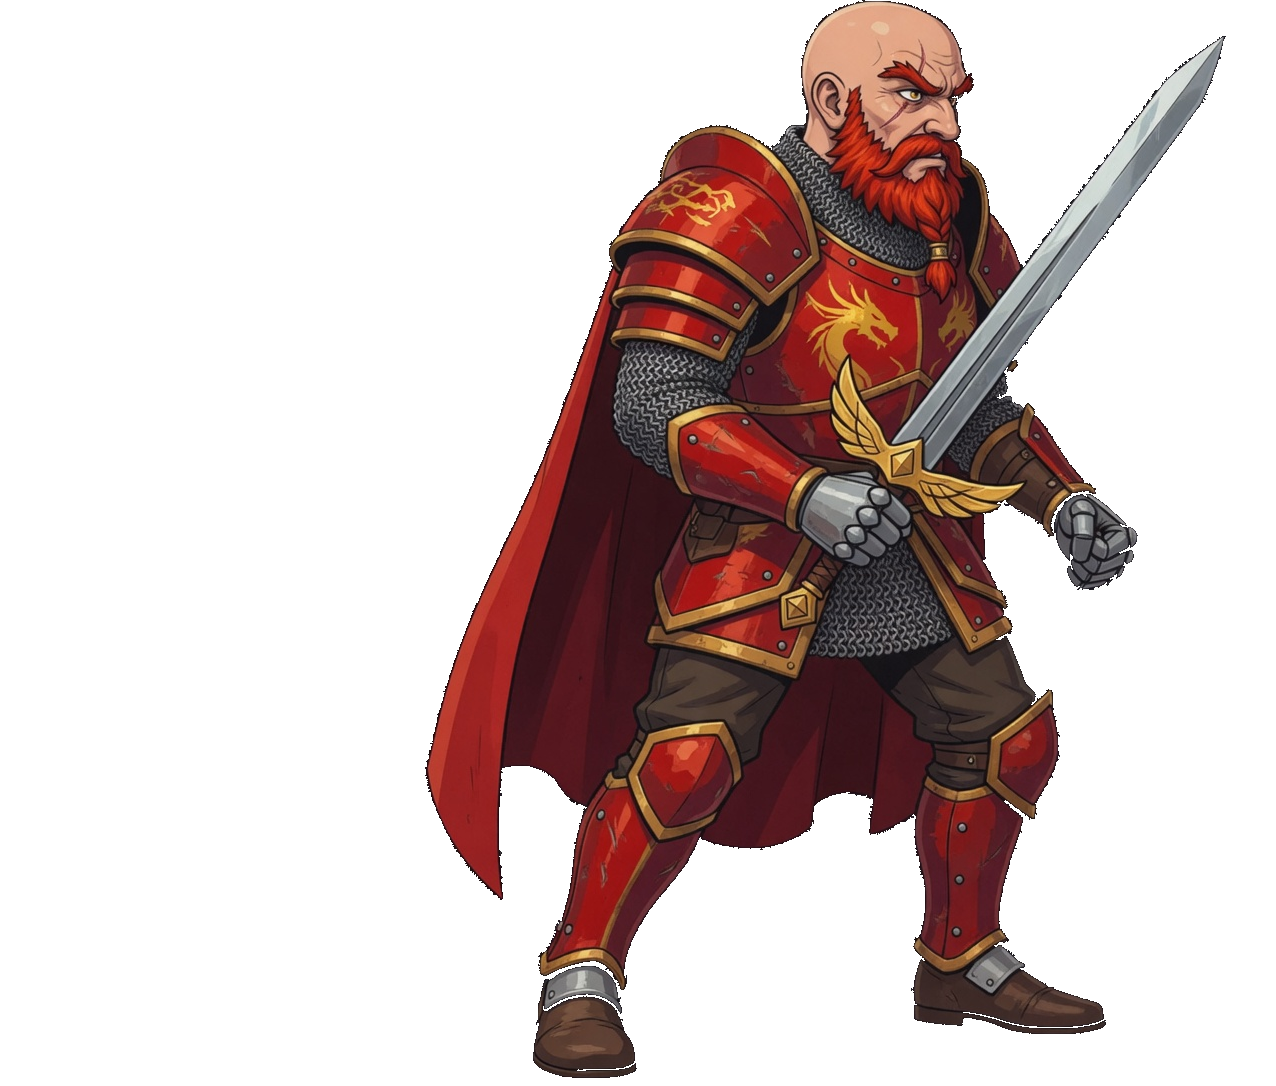
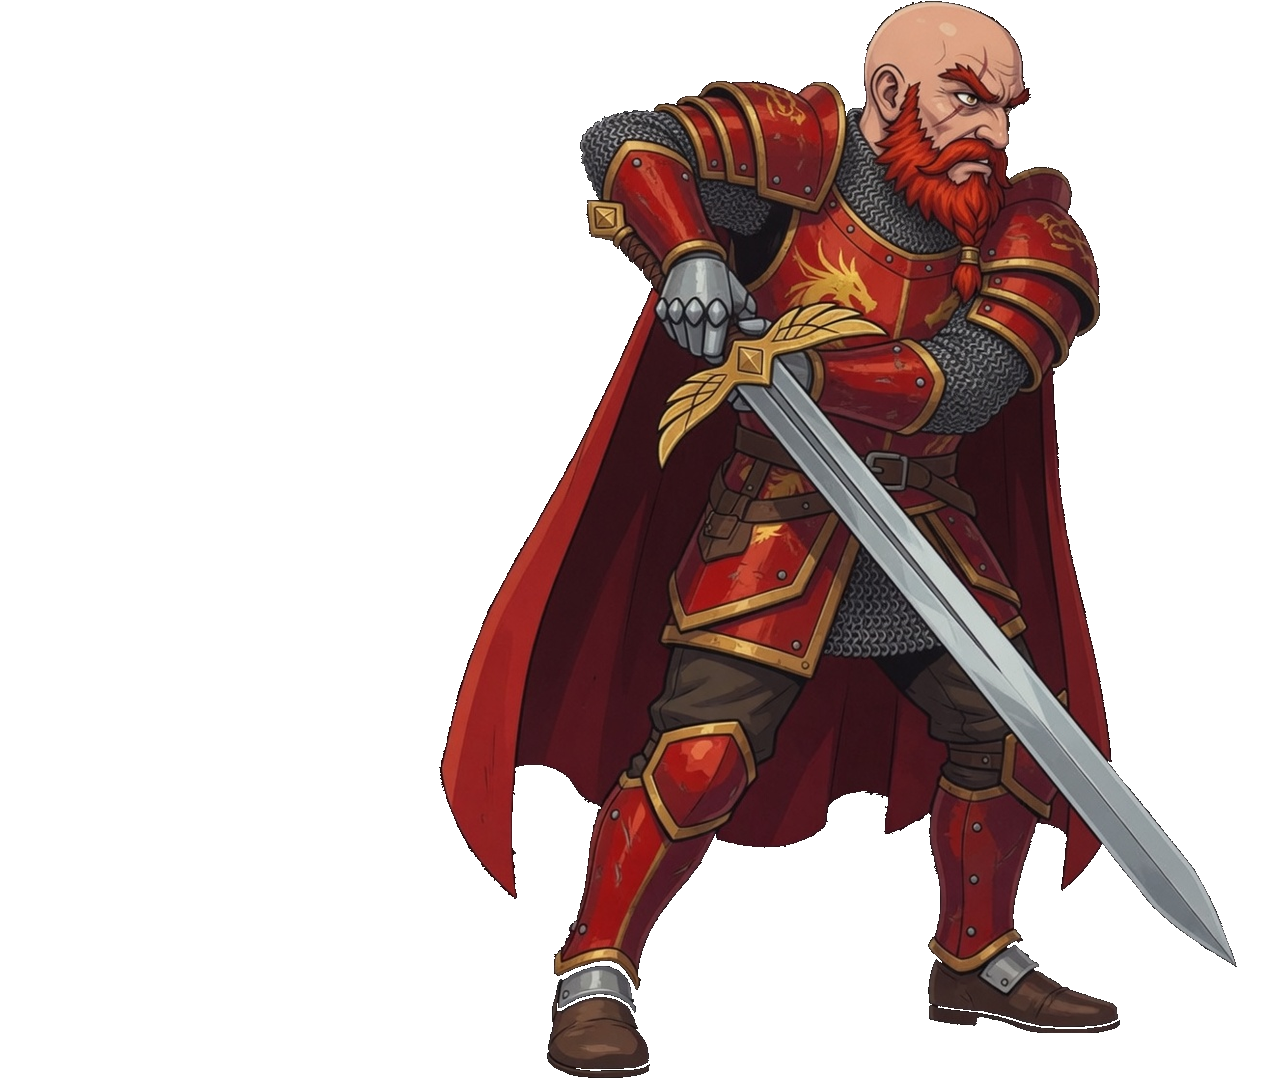
Show Kael's basic attack as a sword swing and give it more time.
Shard Volley now cocks, crosses, hits, and follows through over 0.72s. Fight numbers stay the same.

Changed region(s): [[0.3362, 0.0, 0.9781, 1.0]]

diff --git a/Assets/Art/Duel/kael/card/index.html b/Assets/Art/Duel/kael/card/index.html
@@ -44,7 +44,10 @@
   <div class="row"><img src="walk-b.png" alt="Walk pass"><div><div class="tag">Walk · pass</div><p>The rear boot swings through. The cape stays behind him.</p></div></div>
   <div class="row"><img src="walk-c.png" alt="Walk other"><div><div class="tag">Walk · other contact</div><p>The other boot leads. Same height, same sword, same foot line as the idle.</p></div></div>
   <div class="row"><img src="walk-d.png" alt="Walk return"><div><div class="tag">Walk · return</div><p>Passing back toward the first contact. The next frame is the loop.</p></div></div>
-  <div class="row"><img src="shard.png" alt="Shard Volley"><div><div class="tag">Shard Volley · frame 2 of 3 · 0.36s · feet pivot</div><p>Cut. The sword is level and a red shard sits at the tip. Frame 1 and frame 3 are idle.</p></div></div>
+  <div class="row"><img src="wind.png" alt="Shard Volley wind"><div><div class="tag">Shard Volley · frame 2 of 6 · 0.72s · feet pivot</div><p>The sword cocks back beside the head. Both hands stay on the grip. Frame 1 is idle.</p></div></div>
+  <div class="row"><img src="cross.png" alt="Shard Volley cross"><div><div class="tag">Shard Volley · frame 3 of 6</div><p>The blade comes down across the chest.</p></div></div>
+  <div class="row"><img src="shard.png" alt="Shard Volley"><div><div class="tag">Shard Volley · frame 4 of 6</div><p>The sword is level and a red shard sits at the tip.</p></div></div>
+  <div class="row"><img src="follow.png" alt="Shard Volley follow"><div><div class="tag">Shard Volley · frame 5 of 6</div><p>The blade finishes low and forward. Frame 6 is idle. This is not Rend: Rend stays the deeper low slash.</p></div></div>
   <div class="row"><img src="rend.png" alt="Rend"><div><div class="tag">Rend · frame 2 of 3 · 0.42s · feet pivot</div><p>The heavy slash, blade low and forward. Frame 1 and frame 3 are idle.</p></div></div>
   <div class="row"><img src="wall.png" alt="Shield Wall"><div><div class="tag">Shield Wall · frame 2 of 2 · 0.50s · feet pivot</div><p>The sword is upright in front of the chest. The plate under his feet is the ring, not part of this sprite.</p></div></div>
   <div class="row"><img src="charge.png" alt="Charge"><div><div class="tag">Squire's Charge · frame 2 of 2 · 0.40s · feet pivot</div><p>Lunge. Sword leads, rear boot back, cape thrown behind him.</p></div></div>

diff --git a/Assets/Menu/Editor/ArenaSceneSetup.cs b/Assets/Menu/Editor/ArenaSceneSetup.cs
@@ -91,7 +91,7 @@ namespace BattleTv.Menu.EditorTools
             var kael = "Assets/Art/Duel/kael.png";
             Configure(kael, true, 2048, true);
             so.FindProperty("kaelStill").objectReferenceValue = LoadSprite(kael);
-            AssignClip(so, "kaelShard", Cutout("kael-shard", 3));
+            AssignClip(so, "kaelShard", Cutout("kael-shard", 6));
             AssignClip(so, "kaelRend", Cutout("kael-rend", 3));
             AssignClip(so, "kaelWall", Cutout("kael-wall", 2));
             AssignClip(so, "kaelCharge", Cutout("kael-charge", 2));

diff --git a/Assets/Fight/ArenaView.cs b/Assets/Fight/ArenaView.cs
@@ -867,7 +867,7 @@ namespace BattleTv.Fight
             else if (body.Id == "kael")
             {
                 if (call == "Shard Volley")
-                    ArmClip(actor, kaelShard, 0.36f, 0.5f, call);
+                    ArmClip(actor, kaelShard, 0.72f, 0.5f, call);
                 else if (call == "Rend")
                     ArmClip(actor, kaelRend, 0.42f, 0.5f, call);
                 else if (call == "Shield Wall")
